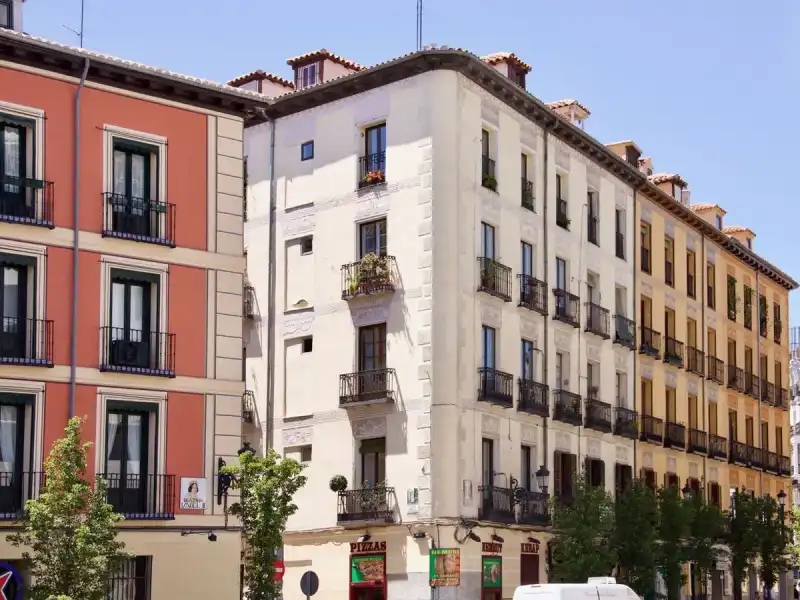
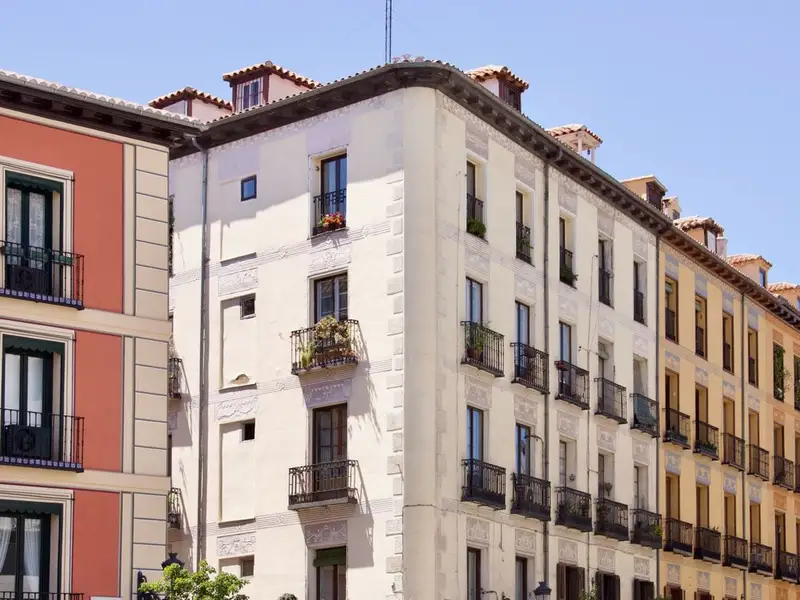
fix(imagenes): fotos sin rótulos de comercios y ducha con el plato a la vista

diff --git a/src/app/landing/paginas-hub.ts b/src/app/landing/paginas-hub.ts
@@ -327,7 +327,7 @@ export const PAGINAS_HUB: PaginaSeo[] = [
           {
             titulo: 'Tipo de edificio',
             imagen: '/images/edificio-esquina.webp',
-            imagenAlt: 'Edificio clásico en esquina',
+            imagenAlt: 'Balcones de un edificio residencial clásico',
             texto:
               'Las fincas del Ensanche, con techos altos y forjados antiguos, no se parecen a los bloques de los años 60, a la vivienda de un PAU o a un chalet de una urbanización. Cada tipología tiene sus problemas y oportunidades.',
           },

diff --git a/src/app/landing/paginas-zonas.ts b/src/app/landing/paginas-zonas.ts
@@ -217,7 +217,7 @@ export const PAGINAS_ZONAS: PaginaSeo[] = [
     },
     servicioFormulario: '',
     imagen: '/images/edificio-esquina.webp',
-    imagenAlt: 'Edificio residencial clásico en esquina',
+    imagenAlt: 'Balcones de un edificio residencial clásico',
     relacionadas: [
       'reformas-integrales-madrid',
       'reforma-cocinas-madrid',

diff --git a/public/images/CREDITOS.md b/public/images/CREDITOS.md
@@ -30,7 +30,7 @@ Hay que comprobar en cada enlace que la licencia sigue siendo esa antes de publi
 | `planos-medidas` | Plano con cinta métrica y bolígrafo | ver enlace | [Pexels](https://www.pexels.com/photo/instruments-prepared-for-measurements-in-house-4792479/) |
 | `planos-mesa` | Plano de una vivienda sobre una mesa | Anete Lusina | [Pexels](https://www.pexels.com/photo/architecture-plan-on-wooden-surface-4792483/) |
 | `edificio-clasico-madrid` | Fachadas clásicas de Madrid | antonio filigno | [Pexels](https://www.pexels.com/photo/facade-of-concrete-buildings-10431546/) |
-| `edificio-esquina` | Edificio residencial clásico en esquina | ver enlace | [Pexels](https://www.pexels.com/photo/facades-of-city-residential-buildings-11092356/) |
+| `edificio-esquina` | Balcones de un edificio residencial clásico | ver enlace | [Pexels](https://www.pexels.com/photo/apartment-buildings-against-sky-258181/) |
 | `edificios-madrid` | Bloques residenciales en Madrid | ver enlace | [Pexels](https://www.pexels.com/photo/tenements-in-madrid-17627455/) |
 | `edificio-ladrillo-madrid` | Edificio de ladrillo en Madrid | ver enlace | [Pexels](https://www.pexels.com/photo/historic-red-brick-apartment-building-in-madrid-35417629/) |
 | `hero-reforma` | Interior de una vivienda reformada | ver enlace | [Unsplash](https://images.unsplash.com/photo-1600607687939-ce8a6c25118c), licencia de Unsplash; ya se usaba en la portada |
